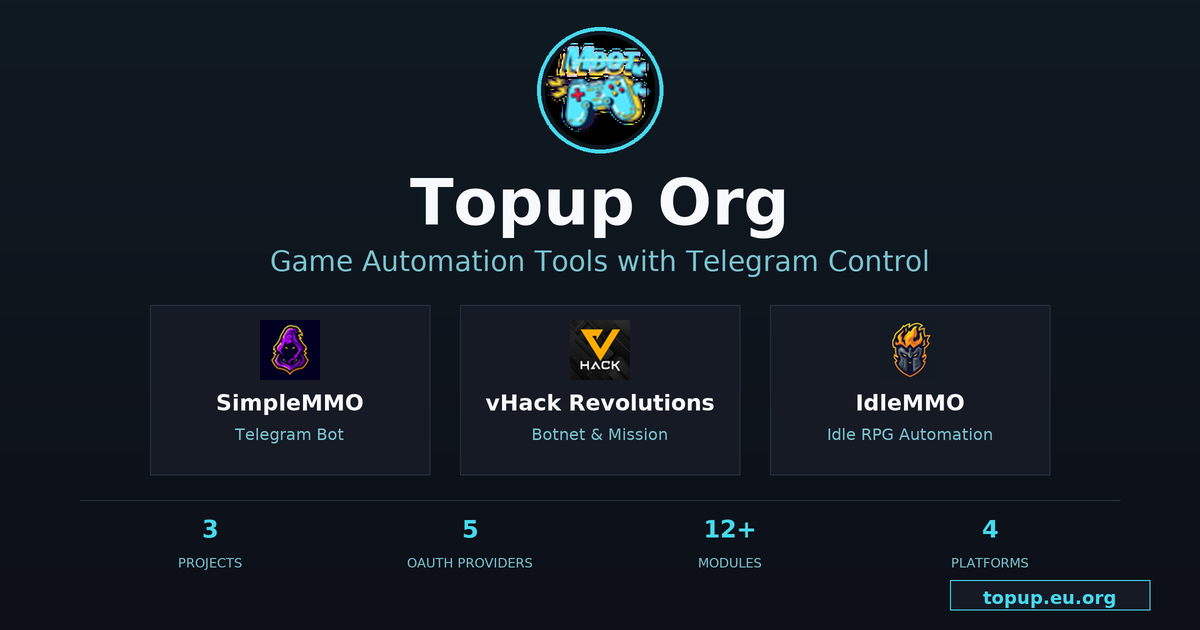
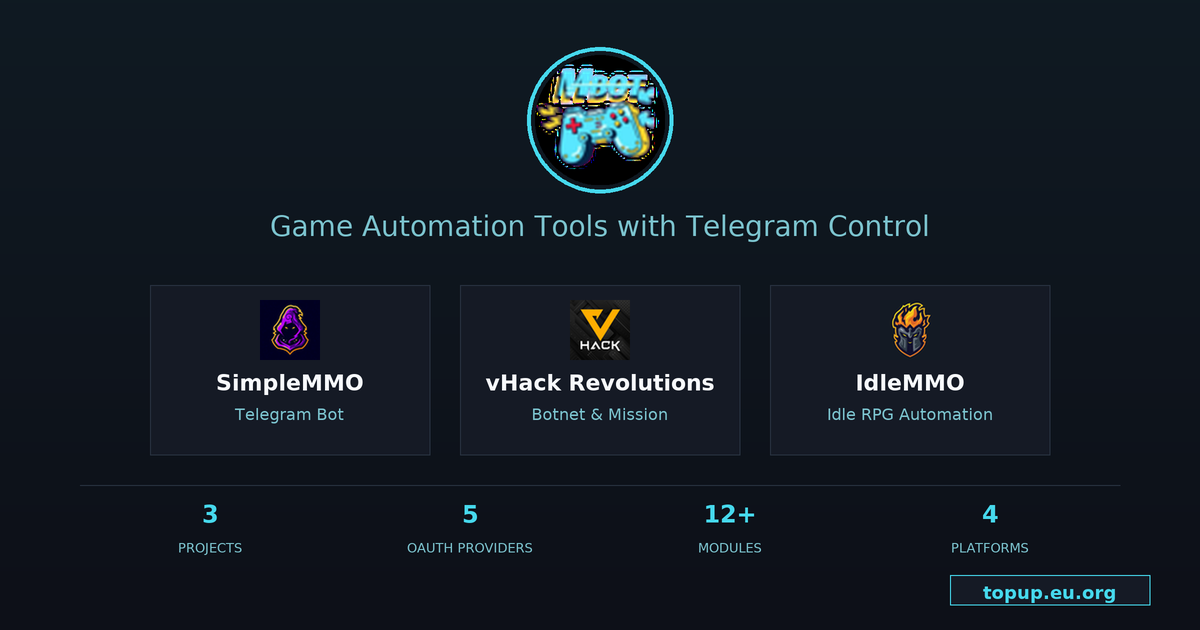
chore(seo): make OG description general, drop brand text from image
- _config.yml description: drop "— SimpleMMO Bot and vHack Revolutions"
- _layouts/default.html og/twitter description: drop project names,
  keep "Game automation tools with Telegram control."
- JSON-LD WebSite description: same general description
- site-og.png: removed "Topup Org" text under logo so the card reads
  as a general game automation brand, not tied to specific products
- Bump cache-buster to ?v=4

diff --git a/_layouts/default.html b/_layouts/default.html
@@ -20,7 +20,7 @@
     "name": "SimpleMMO Bot",
     "alternateName": "Topup Org",
     "url": "https://topup.eu.org",
-    "description": "Game automation tools with Telegram control \u2014 SimpleMMO Bot and vHack Revolutions.",
+    "description": "Game automation tools with Telegram control.",
     "publisher": {
       "@type": "Organization",
       "name": "Topup Org",
@@ -35,20 +35,20 @@
   <meta property="og:type" content="website">
   <meta property="og:site_name" content="Topup Org">
   <meta property="og:title" content="{{ page.title | default: 'Topup Org — Game Automation Tools' }}">
-  <meta property="og:description" content="{{ page.description | default: 'Game automation tools with Telegram control — SimpleMMO Bot, vHack Revolutions, and IdleMMO.' }}">
+  <meta property="og:description" content="{{ page.description | default: 'Game automation tools with Telegram control.' }}">
   <meta property="og:url" content="https://topup.eu.org{{ page.url }}">
-  <meta property="og:image" content="https://topup.eu.org/assets/images/site-og.png?v=3">
+  <meta property="og:image" content="https://topup.eu.org/assets/images/site-og.png?v=4">
   <meta property="og:image:width" content="1200">
   <meta property="og:image:height" content="630">
-  <meta property="og:image:alt" content="Topup Org — Game Automation Tools with Telegram Control">
+  <meta property="og:image:alt" content="Game Automation Tools with Telegram Control">
   <meta property="og:locale" content="en_US">
   <meta property="og:locale:alternate" content="id_ID">
   <meta name="twitter:card" content="summary_large_image">
   <meta name="twitter:site" content="@bovalone">
   <meta name="twitter:creator" content="@bovalone">
-  <meta name="twitter:title" content="{{ page.title | default: 'Topup Org — Game Automation Tools' }}">
-  <meta name="twitter:description" content="{{ page.description | default: 'Game automation tools with Telegram control — SimpleMMO Bot, vHack Revolutions, and IdleMMO.' }}">
-  <meta name="twitter:image" content="https://topup.eu.org/assets/images/site-og.png?v=3">
+  <meta name="twitter:title" content="{{ page.title | default: 'Game Automation Tools' }}">
+  <meta name="twitter:description" content="{{ page.description | default: 'Game automation tools with Telegram control.' }}">
+  <meta name="twitter:image" content="https://topup.eu.org/assets/images/site-og.png?v=4">
   <link rel="icon" type="image/png" href="/assets/images/mbot-favicon.png">
   <link rel="icon" href="/favicon.ico" sizes="any">
   <link rel="apple-touch-icon" href="/assets/images/mbot-favicon.png">
